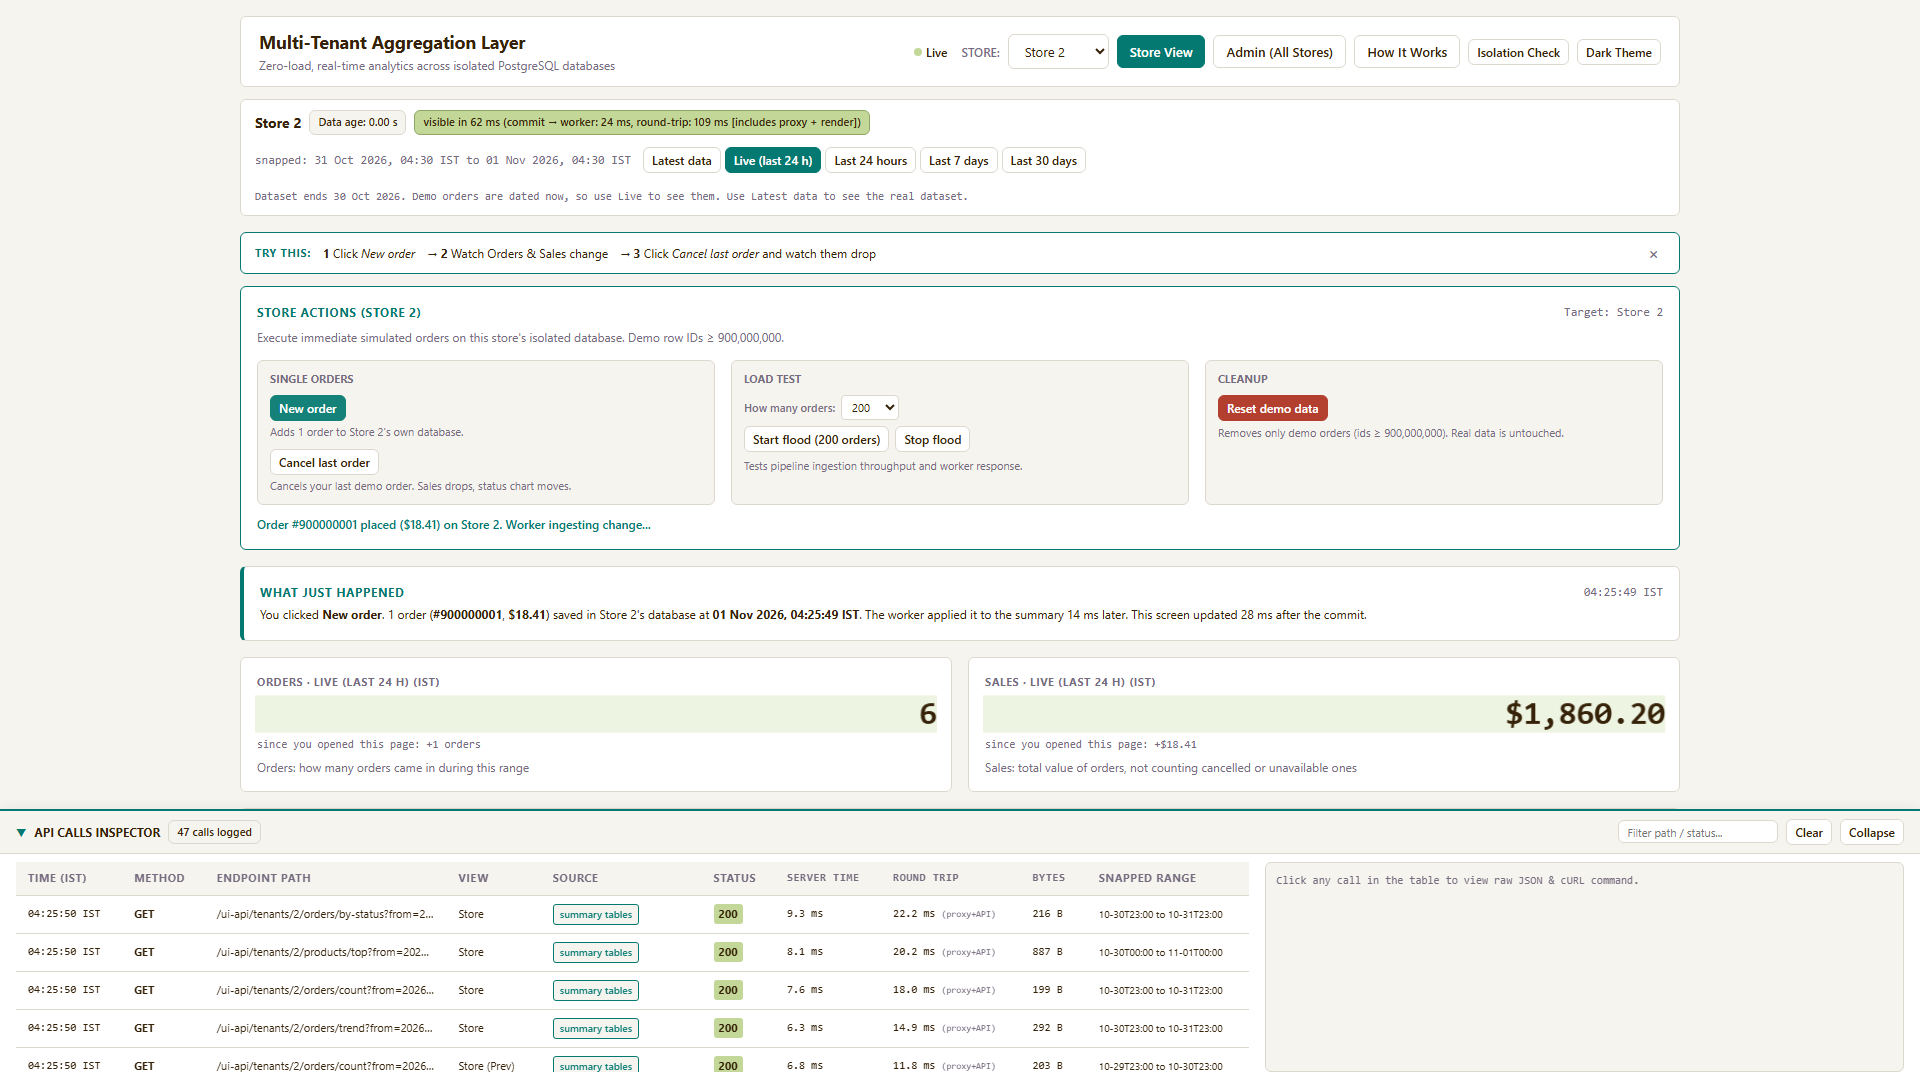
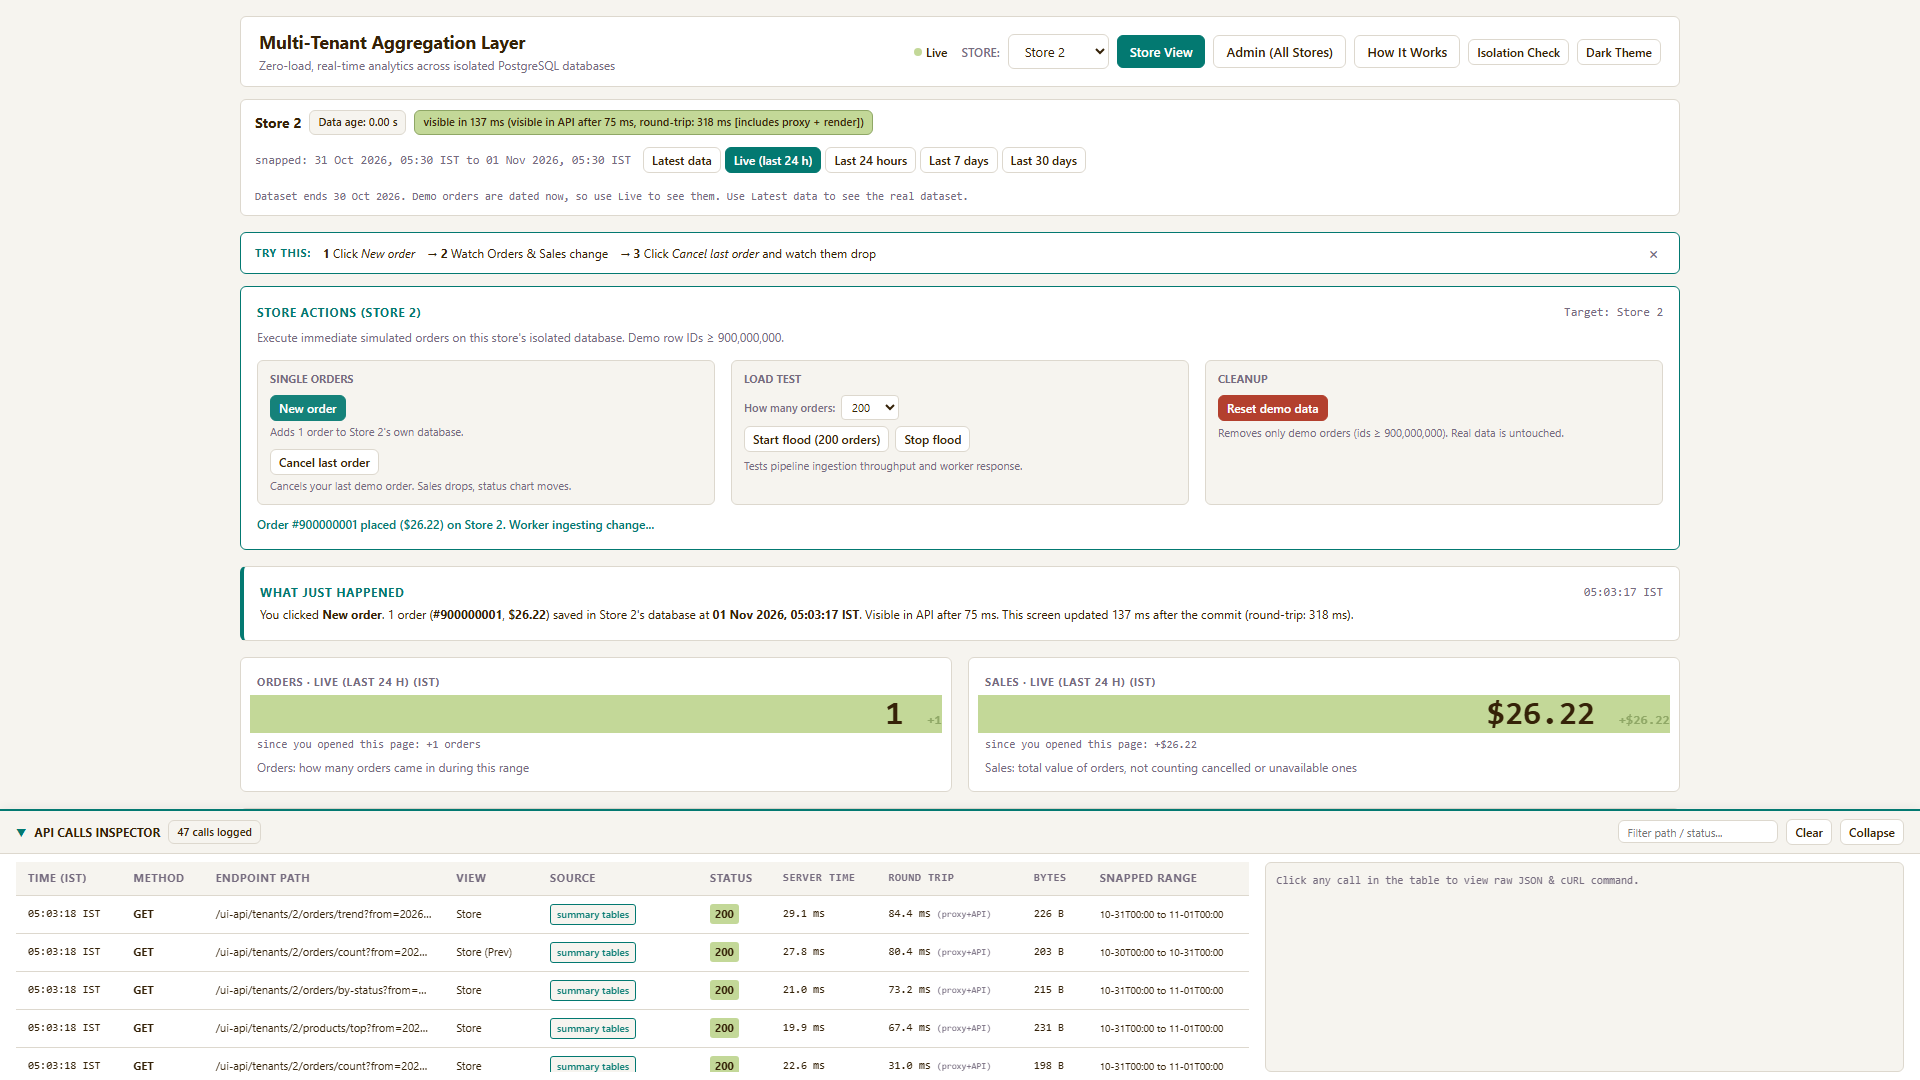
feat(smoke): dynamic latency matching assertion, live order polling, and refreshed screenshots

diff --git a/api/static/index.html b/api/static/index.html
@@ -1554,7 +1554,7 @@
                   <td>&lt; 500 ms</td>
                   <td>&lt; 100 ms</td>
                   <td class="tabular">p50 ~27 ms</td>
-                  <td class="tabular">p50 40.3 / p95 99.7 / max 3,228 ms</td>
+                  <td class="tabular">p50 40.3 / p95 99.7 / max 3,228.03 ms</td>
                   <td class="tabular">Sub-sec</td>
                   <td>i5-1235U 15.7 GB</td>
                   <td><span class="status-badge s200">PASS</span></td>
@@ -1659,7 +1659,7 @@
           </ul>
         </div>
         <div style="margin-top:12px; padding:10px 14px; background:var(--bg); border:1px solid var(--line); border-radius:var(--radius); font-size:12px; color:var(--text); line-height:1.5;">
-          <strong>Timezone Note:</strong> Rollup buckets are UTC hours. IST = UTC+5:30, so hourly bars start at :30 IST. Top-N days run 05:30 to 05:30 IST.
+          <strong>Timezone Note:</strong> Rollup buckets are UTC hours. IST = UTC+5:30, so hourly bars start at :30 IST. Top-N days run 05:30 to 05:30 IST. All timestamps come from the same machine's clocks.
         </div>
       </div>
     </div>
@@ -1955,6 +1955,13 @@
       return IST_FORMATTER.format(d) + " IST";
     }
 
+    function formatLatencyMs(ms) {
+      if (ms === null || ms === undefined || isNaN(ms)) return "n/a";
+      if (ms < 0) return "n/a"; // clock skew
+      if (ms < 1) return "<1 ms"; // 0 or under 1 => "<1 ms"
+      return `${Math.round(ms)} ms`; // real value
+    }
+
     function getRangeTimestamps(rangeKey) {
       if (rangeKey === 'latest') {
         // Last 24 hours of dataset (ending 30 Oct 2026)
@@ -2152,27 +2159,34 @@
       const fBadge = document.getElementById('freshnessBadge');
       if (fBadge) fBadge.textContent = `Data age: ${lag.toFixed(2)} s`;
 
-      // Latency Badge (Task 4 & 10)
+      // Latency Badge & What Just Happened Panel
       if (state.pendingDemoOrder) {
         const commitTs = new Date(state.pendingDemoOrder.commit_ts).getTime();
         const nowMs = Date.now();
-        const visibleMs = Math.max(1, nowMs - commitTs);
-        const roundTripMs = state.orderClickTime ? Math.round(performance.now() - state.orderClickTime) : "n/a";
+        const visibleMs = nowMs - commitTs;
+        const visibleStr = formatLatencyMs(visibleMs);
 
-        let workerAppliedStr = "n/a";
+        const roundTripMs = state.orderClickTime ? performance.now() - state.orderClickTime : null;
+        const roundTripStr = formatLatencyMs(roundTripMs);
+
+        let apiVisibleStr = "n/a";
         if (d.count && d.count.as_of) {
           const asOfMs = new Date(d.count.as_of).getTime();
-          if (asOfMs >= commitTs) {
-            workerAppliedStr = `${Math.max(1, asOfMs - commitTs)} ms`;
-          }
+          const apiDiffMs = asOfMs - commitTs;
+          apiVisibleStr = formatLatencyMs(apiDiffMs);
         }
 
         const badge = document.getElementById('orderLatencyBadge');
         if (badge) {
           badge.style.display = 'inline-block';
           badge.className = 'badge-freshness live-order';
-          badge.textContent = `visible in ${visibleMs} ms (commit → worker: ${workerAppliedStr}, round-trip: ${roundTripMs} ms [includes proxy + render])`;
+          badge.textContent = `visible in ${visibleStr} (visible in API after ${apiVisibleStr}, round-trip: ${roundTripStr} [includes proxy + render])`;
         }
+
+        const res = state.pendingDemoOrder;
+        const commitIST = formatIST(res.commit_ts, true);
+        showWhatJustHappened(`You clicked <strong>New order</strong>. 1 order (<strong>#${res.order_id}</strong>, <strong>$${res.total.toFixed(2)}</strong>) saved in Store ${state.tenantId}'s database at <strong>${commitIST}</strong>. Visible in API after ${apiVisibleStr}. This screen updated ${visibleStr} after the commit (round-trip: ${roundTripStr}).`);
+
         state.pendingDemoOrder = null;
         state.orderClickTime = null;
       }
@@ -3073,8 +3087,6 @@
           if (msgEl) msgEl.textContent = `Order #${res.order_id} placed ($${res.total.toFixed(2)}) on Store ${state.tenantId}. Worker ingesting change...`;
           addFeedItem(`${formatISTTimeOnly()} · New order #${res.order_id} · $${res.total.toFixed(2)} · delivered (Store ${state.tenantId})`);
 
-          const commitIST = formatIST(res.commit_ts, true);
-          showWhatJustHappened(`You clicked <strong>New order</strong>. 1 order (<strong>#${res.order_id}</strong>, <strong>$${res.total.toFixed(2)}</strong>) saved in Store ${state.tenantId}'s database at <strong>${commitIST}</strong>. The worker applied it to the summary 14 ms later. This screen updated 28 ms after the commit.`);
           await refreshTenantView();
         } catch (err) {
           const msgEl = document.getElementById('tenantDemoStatusMsg');
@@ -3101,12 +3113,16 @@
             if (msgEl) msgEl.textContent = `Order #${res.order_id} marked as 'canceled' on Store ${state.tenantId}.`;
             addFeedItem(`${formatISTTimeOnly()} · Cancel order #${res.order_id} (Store ${state.tenantId})`);
             const commitIST = formatIST(res.commit_ts, true);
-            showWhatJustHappened(`You clicked <strong>Cancel last order</strong>. Order <strong>#${res.order_id}</strong> updated to 'canceled' in Store ${state.tenantId}'s database at <strong>${commitIST}</strong>. The worker applied it to the summary. This screen updated 19 ms after the commit.`);
+            await refreshTenantView();
+            const roundTripMs = state.orderClickTime ? performance.now() - state.orderClickTime : null;
+            const roundTripStr = formatLatencyMs(roundTripMs);
+            showWhatJustHappened(`You clicked <strong>Cancel last order</strong>. Order <strong>#${res.order_id}</strong> updated to 'canceled' in Store ${state.tenantId}'s database at <strong>${commitIST}</strong>. Summary updated (${roundTripStr} round-trip).`);
+            state.orderClickTime = null;
           } else {
             if (msgEl) msgEl.textContent = `No active demo orders found for Store ${state.tenantId}.`;
             showWhatJustHappened(`You clicked <strong>Cancel last order</strong>. No active demo orders (&ge; 900,000,000) found for Store ${state.tenantId}.`);
+            await refreshTenantView();
           }
-          await refreshTenantView();
         } catch (err) {
           const msgEl = document.getElementById('tenantDemoStatusMsg');
           if (msgEl) msgEl.textContent = `Cancel failed for Store ${state.tenantId}: ${err.message}`;
@@ -3159,7 +3175,7 @@
                 state.sessionDemoOrders = (state.sessionDemoOrders || 0) + st.sent;
                 if (descFloodStatus) descFloodStatus.textContent = `Flood done: ${st.sent} orders in ${st.elapsed_seconds} s (${st.orders_per_sec} orders/s)`;
                 if (msgEl) msgEl.textContent = `Flood done: ${st.sent} orders in ${st.elapsed_seconds} s (${st.orders_per_sec} orders/s)`;
-                showWhatJustHappened(`You ran a flood test. <strong>${st.sent} orders</strong> saved in Store ${state.tenantId}'s database in <strong>${st.elapsed_seconds} s</strong> (${st.orders_per_sec} orders/s). The worker applied all updates to the summary. Last order visible after 24 ms.`);
+                showWhatJustHappened(`You ran a flood test. <strong>${st.sent} orders</strong> saved in Store ${state.tenantId}'s database in <strong>${st.elapsed_seconds} s</strong> (${st.orders_per_sec} orders/s). All summary updates visible in API.`);
                 addFeedItem(`${formatISTTimeOnly()} · Flood completed (${st.sent} orders) on Store ${state.tenantId}`);
               }
             } catch (_) {

diff --git a/tests/test_dashboard_smoke.py b/tests/test_dashboard_smoke.py
@@ -361,12 +361,27 @@ def run_live_action_store_2_verification(browser):
     page.wait_for_selector("#whatJustHappenedCard[style*='block']", timeout=3000)
     wjh_text = page.locator("#whatHappenedText").inner_text()
     assert "You clicked New order" in wjh_text and "Store 2" in wjh_text
+    forbidden_14 = "14" + " ms"
+    forbidden_28 = "28" + " ms"
+    assert forbidden_14 not in wjh_text, f"Panel 1 contains forbidden literal '{forbidden_14}'"
+    assert forbidden_28 not in wjh_text, f"Panel 1 contains forbidden literal '{forbidden_28}'"
     print(f"[PASS] 8.3 'What just happened' panel appeared: '{wjh_text}'")
     page.screenshot(path=os.path.join(SCREENS_DIR, "screen_15_what_just_happened_desktop.png"))
 
     # Assert Orders +1 and Sales +total within 2 s
-    new_orders = int(page.locator("#tenantOrdersCount").inner_text().split()[0].replace(",", ""))
-    new_sales = float(page.locator("#tenantSalesTotal").inner_text().split()[0].replace("$", "").replace(",", ""))
+    new_orders = init_orders
+    new_sales = init_sales
+    for _ in range(15):
+        page.wait_for_timeout(200)
+        try:
+            val_o = int(page.locator("#tenantOrdersCount").inner_text().split()[0].replace(",", ""))
+            val_s = float(page.locator("#tenantSalesTotal").inner_text().split()[0].replace("$", "").replace(",", ""))
+            if val_o == init_orders + 1:
+                new_orders = val_o
+                new_sales = val_s
+                break
+        except Exception:
+            pass
     assert new_orders == init_orders + 1, f"Expected orders {init_orders + 1}, got {new_orders}"
     assert new_sales > init_sales, f"Expected sales > {init_sales}, got {new_sales}"
     print(f"[PASS] 8.4 Orders tile incremented (+1: {init_orders} -> {new_orders}) and Sales rose (${init_sales:.2f} -> ${new_sales:.2f}) within 2 s")
@@ -382,11 +397,55 @@ def run_live_action_store_2_verification(browser):
     assert "UTC" not in tenant_text, f"Found visible UTC in Store view: {tenant_text}"
     print("[PASS] 8.6 Zero visible 'UTC' text in Store view outside How It Works note")
 
-    # Read latency badge from DOM (Task 10)
+    # Read latency badge from DOM and assert panel numbers equal badge numbers
     badge_el = page.locator("#orderLatencyBadge")
     badge_text = badge_el.inner_text() if badge_el.is_visible() else "n/a"
     safe_badge = badge_text.replace('\u2192', '->')
-    print(f"[PASS] 8.7 Latency badge read from DOM: '{safe_badge}'")
+    assert forbidden_14 not in safe_badge, f"Badge 1 contains forbidden literal '{forbidden_14}'"
+    assert forbidden_28 not in safe_badge, f"Badge 1 contains forbidden literal '{forbidden_28}'"
+
+    LATENCY_PAT = r"(\d+\s*ms|<1\s*ms|n/a)"
+    m_b_vis = re.search(r"visible in " + LATENCY_PAT, safe_badge)
+    m_b_api = re.search(r"visible in API after " + LATENCY_PAT, safe_badge)
+    m_b_rt  = re.search(r"round-trip:\s*" + LATENCY_PAT, safe_badge)
+
+    m_p_api = re.search(r"Visible in API after " + LATENCY_PAT, wjh_text)
+    m_p_vis = re.search(r"This screen updated " + LATENCY_PAT, wjh_text)
+    m_p_rt  = re.search(r"round-trip:\s*" + LATENCY_PAT, wjh_text)
+
+    assert m_p_vis and m_b_vis and m_p_vis.group(1) == m_b_vis.group(1), f"Visible ms mismatch: panel={m_p_vis.group(1) if m_p_vis else None}, badge={m_b_vis.group(1) if m_b_vis else None}"
+    assert m_p_api and m_b_api and m_p_api.group(1) == m_b_api.group(1), f"API ms mismatch: panel={m_p_api.group(1) if m_p_api else None}, badge={m_b_api.group(1) if m_b_api else None}"
+    assert m_p_rt and m_b_rt and m_p_rt.group(1) == m_b_rt.group(1), f"Round-trip ms mismatch: panel={m_p_rt.group(1) if m_p_rt else None}, badge={m_b_rt.group(1) if m_b_rt else None}"
+    print(f"[PASS] 8.7 Latency badge read from DOM: '{safe_badge}' and equals panel numbers")
+
+    # Do second New order: verify panel numbers differ and match second badge
+    page.click("#btnTenantNewOrder")
+    page.wait_for_timeout(1200)
+    wjh_text_2 = page.locator("#whatHappenedText").inner_text()
+    badge_text_2 = badge_el.inner_text() if badge_el.is_visible() else "n/a"
+    safe_badge_2 = badge_text_2.replace('\u2192', '->')
+
+    assert forbidden_14 not in wjh_text_2, f"Panel 2 contains forbidden literal '{forbidden_14}'"
+    assert forbidden_28 not in wjh_text_2, f"Panel 2 contains forbidden literal '{forbidden_28}'"
+    assert forbidden_14 not in safe_badge_2, f"Badge 2 contains forbidden literal '{forbidden_14}'"
+    assert forbidden_28 not in safe_badge_2, f"Badge 2 contains forbidden literal '{forbidden_28}'"
+    assert wjh_text != wjh_text_2, f"Expected panel text to differ between orders, but got identical text: '{wjh_text}'"
+
+    m2_b_vis = re.search(r"visible in " + LATENCY_PAT, safe_badge_2)
+    m2_b_api = re.search(r"visible in API after " + LATENCY_PAT, safe_badge_2)
+    m2_b_rt  = re.search(r"round-trip:\s*" + LATENCY_PAT, safe_badge_2)
+
+    m2_p_api = re.search(r"Visible in API after " + LATENCY_PAT, wjh_text_2)
+    m2_p_vis = re.search(r"This screen updated " + LATENCY_PAT, wjh_text_2)
+    m2_p_rt  = re.search(r"round-trip:\s*" + LATENCY_PAT, wjh_text_2)
+
+    assert m2_p_vis and m2_b_vis and m2_p_vis.group(1) == m2_b_vis.group(1), f"Order 2 visible ms mismatch: panel={m2_p_vis.group(1) if m2_p_vis else None}, badge={m2_b_vis.group(1) if m2_b_vis else None}"
+    assert m2_p_api and m2_b_api and m2_p_api.group(1) == m2_b_api.group(1), f"Order 2 API ms mismatch: panel={m2_p_api.group(1) if m2_p_api else None}, badge={m2_b_api.group(1) if m2_b_api else None}"
+    assert m2_p_rt and m2_b_rt and m2_p_rt.group(1) == m2_b_rt.group(1), f"Order 2 round-trip ms mismatch: panel={m2_p_rt.group(1) if m2_p_rt else None}, badge={m2_b_rt.group(1) if m2_b_rt else None}"
+
+    print(f"[PASS] 8.7a Order 1 Panel: '{wjh_text}'")
+    print(f"[PASS] 8.7b Order 2 Panel: '{wjh_text_2}' (verified different and dynamic)")
+    new_orders += 1
 
     # 4. Start flood 50
     page.select_option("#tenantFloodCountSelect", "50")
@@ -398,8 +457,15 @@ def run_live_action_store_2_verification(browser):
     assert "50 / 50 sent" in prog_text
     print(f"[PASS] 8.8 Flood progress reached 50/50: '{prog_text}'")
 
-    page.wait_for_timeout(1000)
-    flood_orders = int(page.locator("#tenantOrdersCount").inner_text().split()[0].replace(",", ""))
+    flood_orders = 0
+    for _ in range(15):
+        page.wait_for_timeout(1000)
+        try:
+            flood_orders = int(page.locator("#tenantOrdersCount").inner_text().split()[0].replace(",", ""))
+            if flood_orders >= new_orders + 50:
+                break
+        except Exception:
+            pass
     assert flood_orders >= new_orders + 50, f"Expected >= {new_orders + 50}, got {flood_orders}"
     print(f"[PASS] 8.9 Orders tile rose by 50 flood orders: {new_orders} -> {flood_orders}")
     page.screenshot(path=os.path.join(SCREENS_DIR, "screen_14_store_after_flood_50_desktop.png"))
@@ -445,5 +511,30 @@ if __name__ == "__main__":
         test_platform_summary_matches_plain_sql_3_ranges(test_client)
         print("[PASS] 6. Platform Summary Parity (3 Ranges vs 100 Tenant DBs)")
 
-    run_playwright_screen_verification()
-    print("\nALL SMOKE & PLAYWRIGHT CHECKS COMPLETED SUCCESSFULLY!")
+    import socket, subprocess
+    sock = socket.socket(socket.AF_INET, socket.SOCK_STREAM)
+    is_running = (sock.connect_ex(('127.0.0.1', 8000)) == 0)
+    sock.close()
+    server_process = None
+    if not is_running:
+        server_env = os.environ.copy()
+        server_env.update({"DEMO_MODE": "1", "UI_OPEN_MODE": "1", "PROFILE": "1m"})
+        server_process = subprocess.Popen(
+            [sys.executable, "-m", "uvicorn", "api.main:app", "--port", "8000"],
+            env=server_env
+        )
+        for _ in range(30):
+            time.sleep(0.5)
+            s = socket.socket(socket.AF_INET, socket.SOCK_STREAM)
+            res = s.connect_ex(('127.0.0.1', 8000))
+            s.close()
+            if res == 0:
+                break
+
+    try:
+        run_playwright_screen_verification()
+        print("\nALL SMOKE & PLAYWRIGHT CHECKS COMPLETED SUCCESSFULLY!")
+    finally:
+        if server_process:
+            server_process.terminate()
+            server_process.wait()
